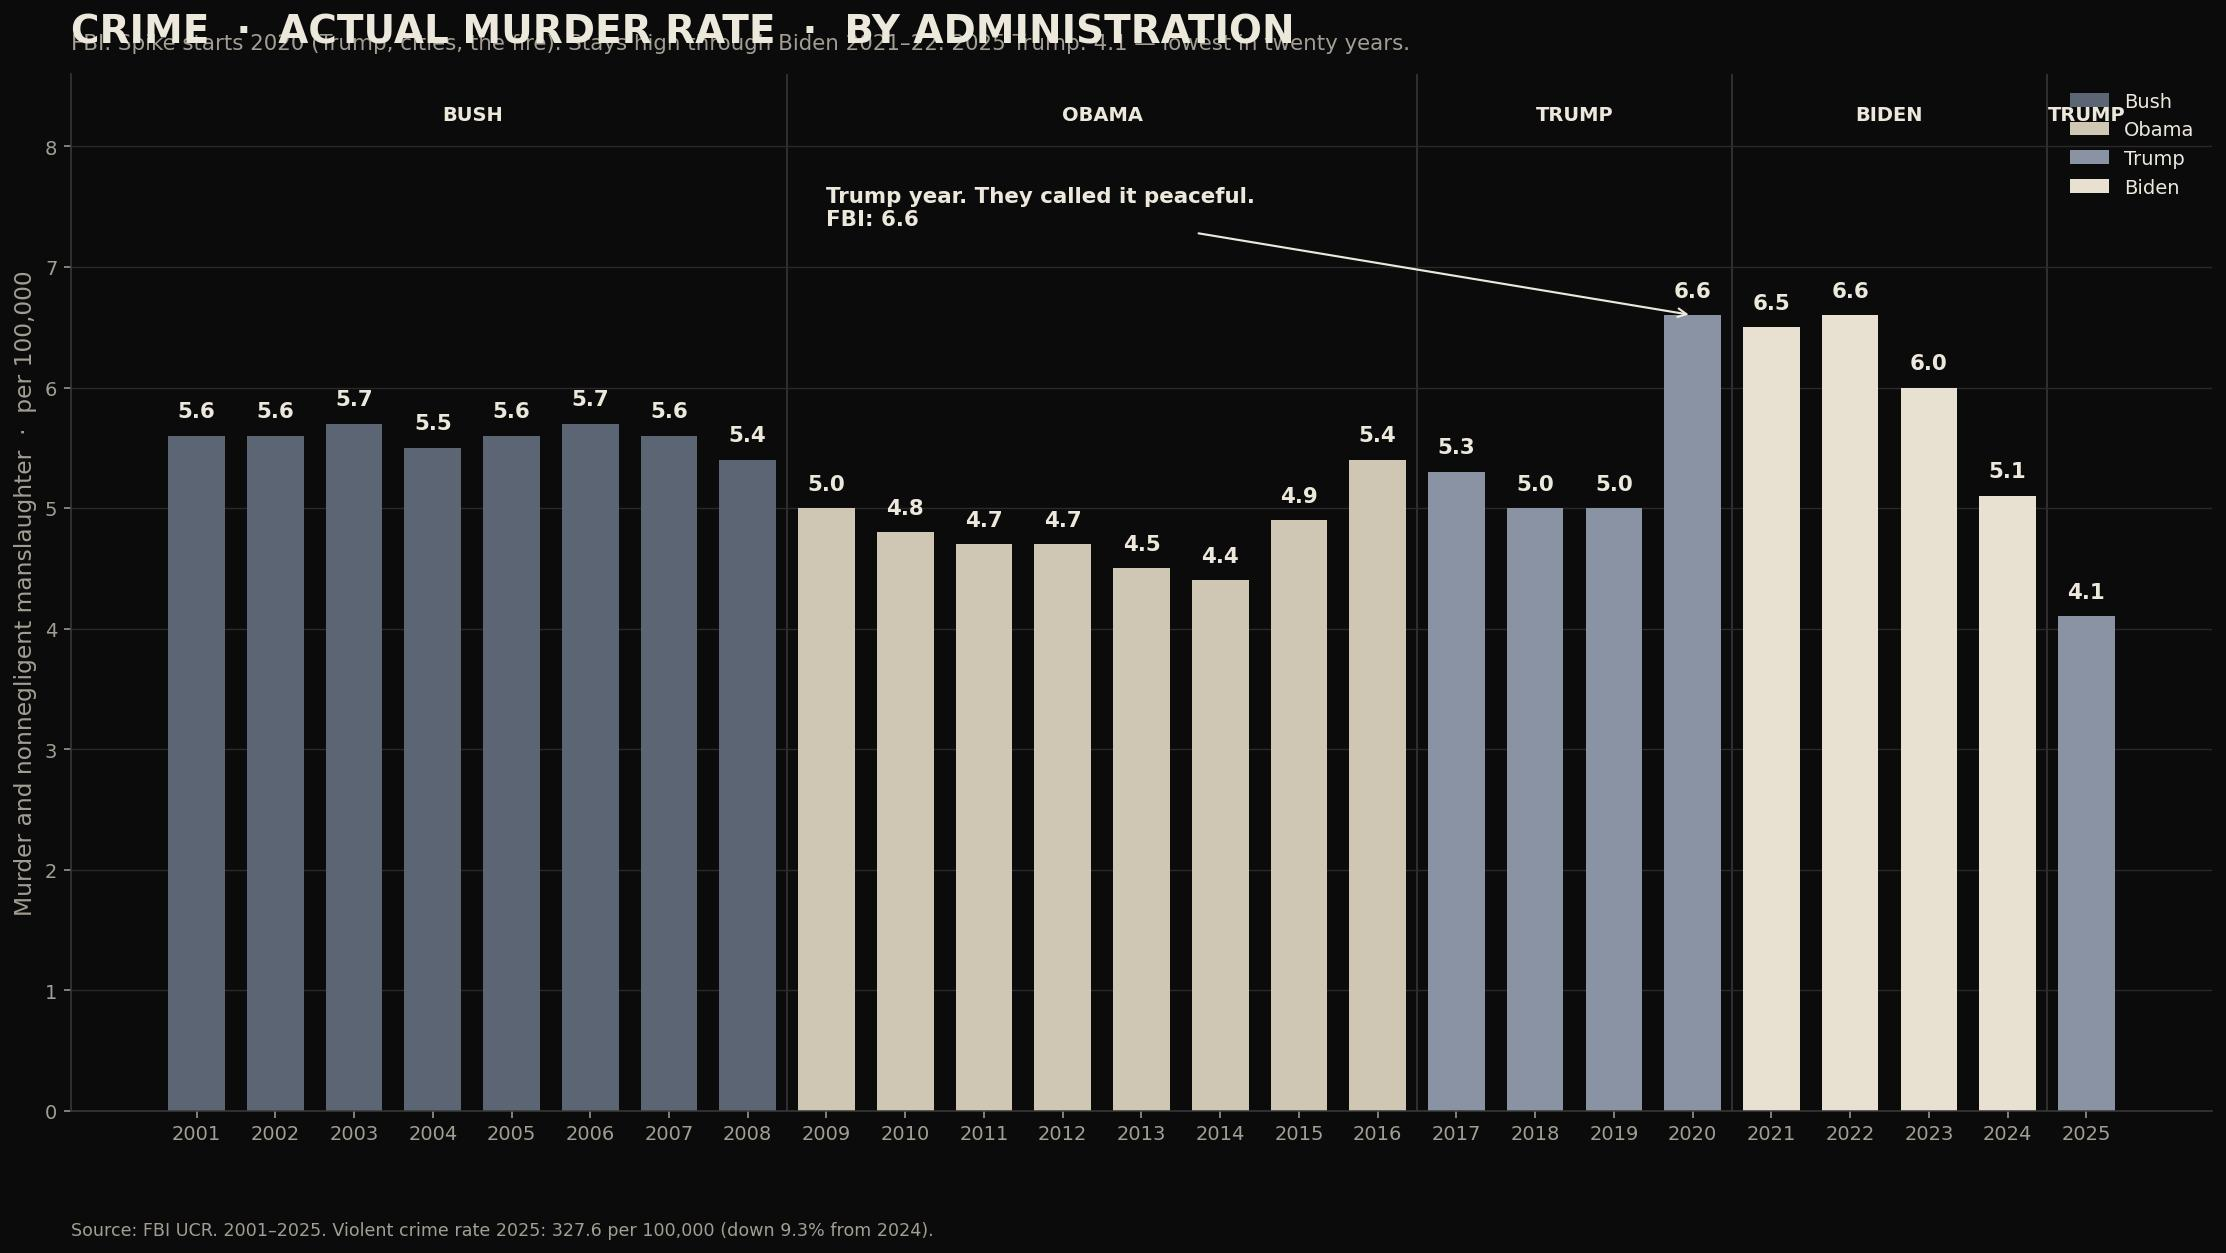
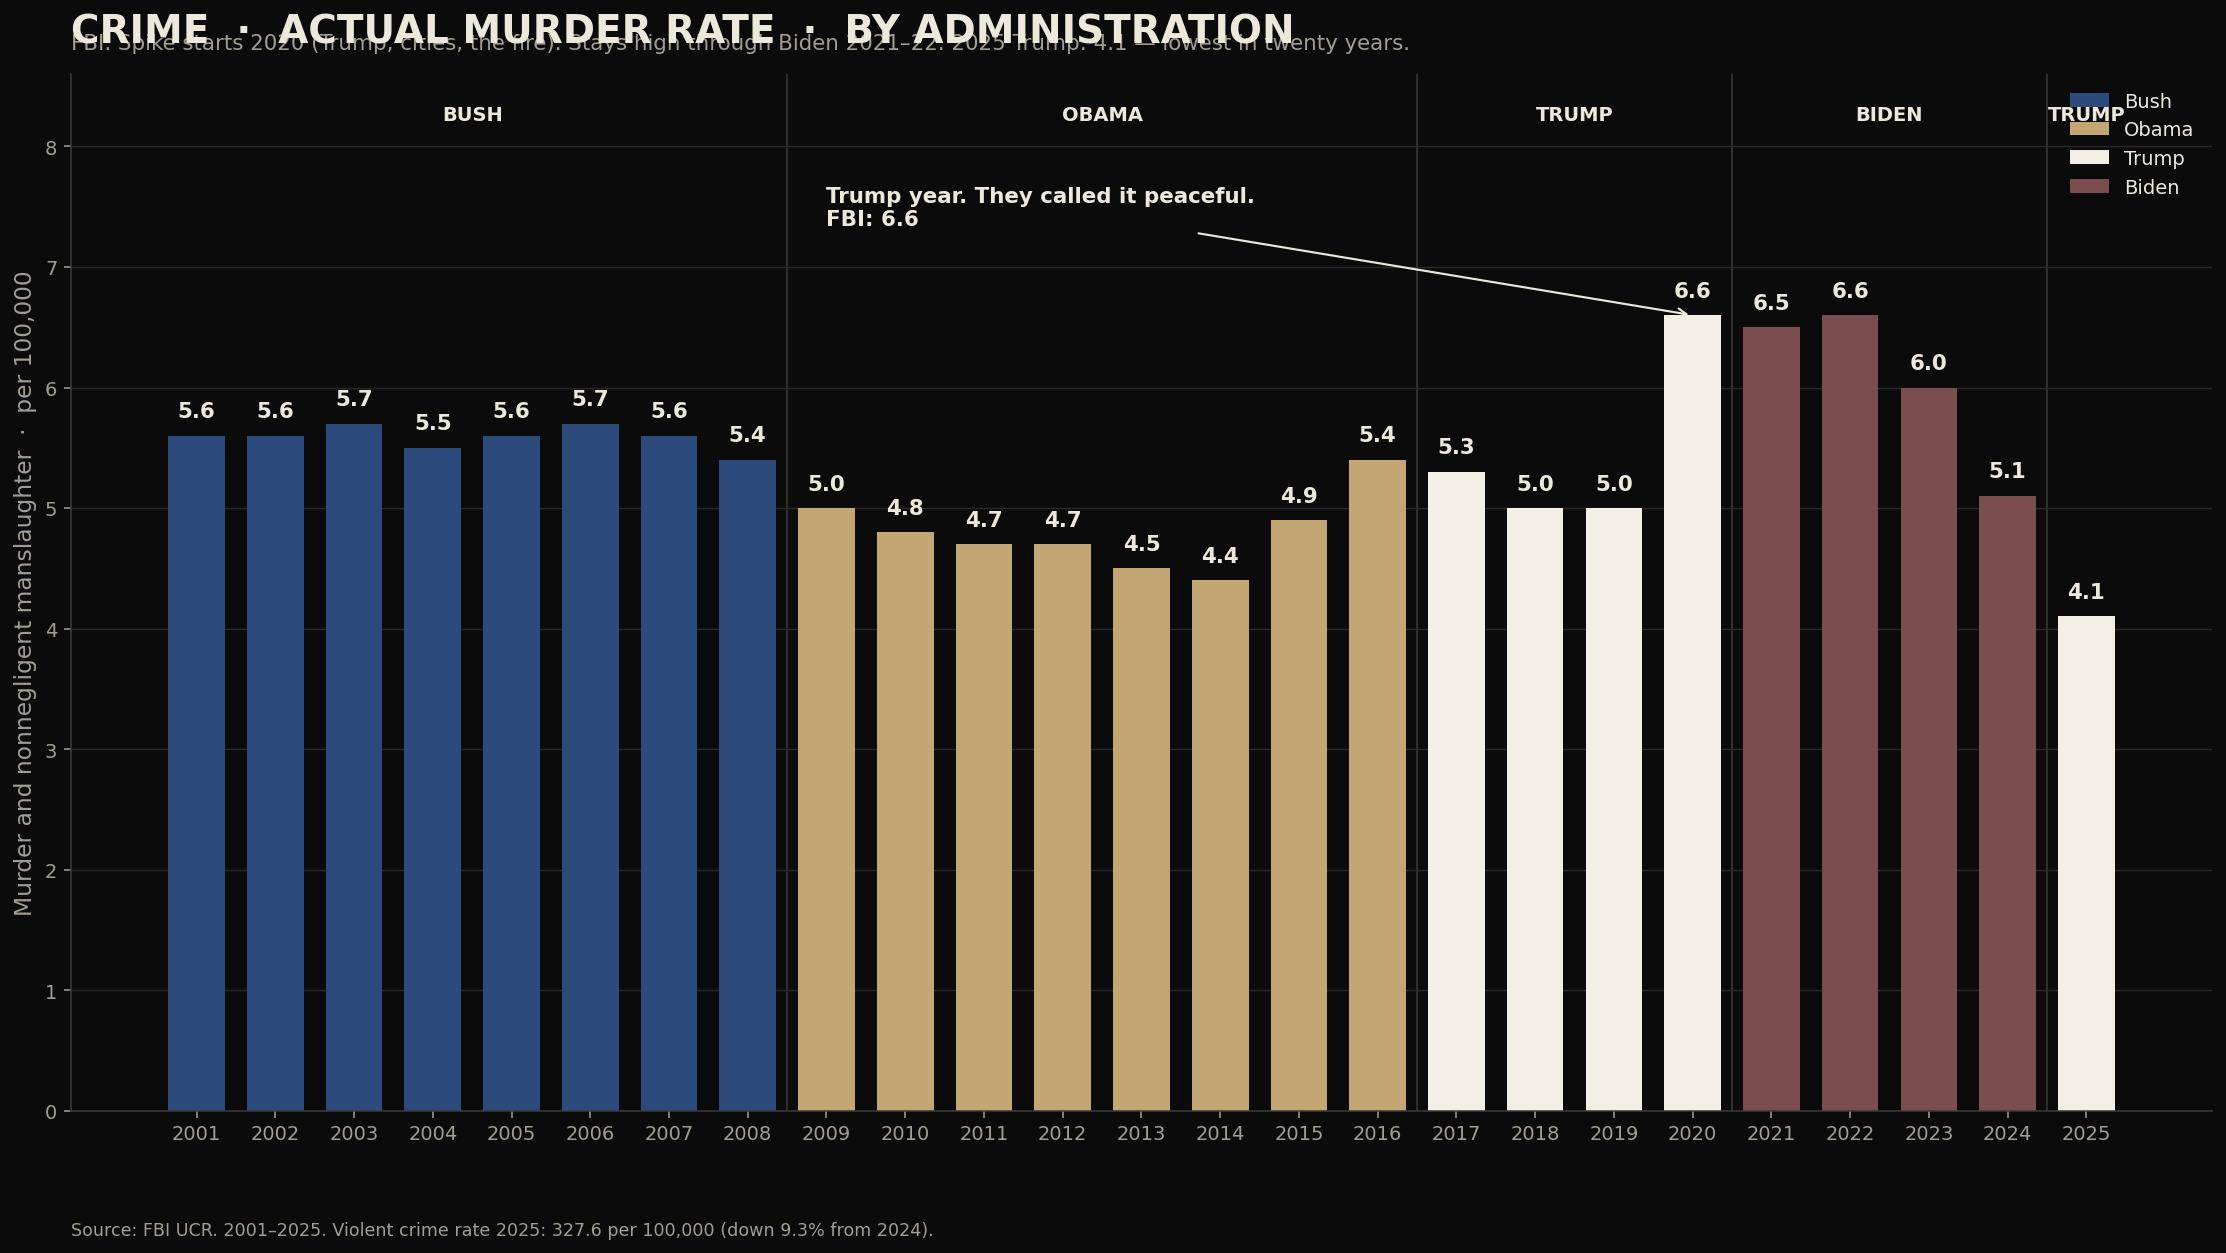
Distinct POTUS colors: Bush navy, Obama sand, Trump ivory, Biden maroon.

diff --git a/scripts/make-pump-charts.py b/scripts/make-pump-charts.py
@@ -11,6 +11,10 @@ BG, FG, MUTED, SAGE, LINE = (
     (232, 224, 208),
     (42, 42, 42),
 )
+BUSH = (44, 74, 124)
+OBAMA = (196, 165, 116)
+TRUMP = (243, 238, 230)
+BIDEN = (122, 78, 78)
 GAS = (232, 224, 208)
 DIESEL = (140, 132, 118)
 W, H = 1600, 900
@@ -52,24 +56,30 @@ def admins():
     left = 80
     # axis
     d.line([(64, base_y), (1536, base_y)], fill=LINE, width=2)
+    potus = [BUSH, OBAMA, TRUMP, BIDEN]
     for i, (who, when, gas, diesel) in enumerate(rows):
         x = left + i * (group_w + gap)
         gh = int(max_h * gas / max_v)
         dh = int(max_h * diesel / max_v)
         gx = x
         dx = x + bar_w + 16
-        d.rectangle([gx, base_y - gh, gx + bar_w, base_y], fill=GAS)
-        d.rectangle([dx, base_y - dh, dx + bar_w, base_y], fill=DIESEL)
+        d.rectangle([gx, base_y - gh, gx + bar_w, base_y], fill=potus[i])
+        d.rectangle([dx, base_y - dh, dx + bar_w, base_y], fill=tuple(max(0, c - 40) for c in potus[i]))
+        label_c = (18, 18, 18) if potus[i][0] > 200 else FG
         d.text((gx + bar_w / 2, base_y - gh - 12), f"${gas:.2f}", font=font(22, True), fill=FG, anchor="ms")
         d.text((dx + bar_w / 2, base_y - dh - 12), f"${diesel:.2f}", font=font(22, True), fill=SAGE, anchor="ms")
-        d.text((x + bar_w + 8, base_y + 16), who, font=font(24, True), fill=FG, anchor="mt")
+        d.text((x + bar_w + 8, base_y + 16), who, font=font(24, True), fill=potus[i], anchor="mt")
         d.text((x + bar_w + 8, base_y + 48), when, font=font(18), fill=MUTED, anchor="mt")
 
-    d.rectangle([64, 200, 88, 224], fill=GAS)
-    d.text((100, 198), "Gasoline", font=font(20, True), fill=FG)
-    d.rectangle([240, 200, 264, 224], fill=DIESEL)
-    d.text((276, 198), "Diesel", font=font(20, True), fill=FG)
-    d.text((64, 850), "Source: EIA weekly  ·  FRED GASREGW / GASDESW  ·  highest week in that Oval, dollars per gallon including tax", font=font(18), fill=MUTED)
+    d.rectangle([64, 200, 88, 224], fill=BUSH)
+    d.text((100, 198), "Bush", font=font(20, True), fill=FG)
+    d.rectangle([220, 200, 244, 224], fill=OBAMA)
+    d.text((256, 198), "Obama", font=font(20, True), fill=FG)
+    d.rectangle([400, 200, 424, 224], fill=TRUMP)
+    d.text((436, 198), "Trump 1", font=font(20, True), fill=FG)
+    d.rectangle([600, 200, 624, 224], fill=BIDEN)
+    d.text((636, 198), "Biden", font=font(20, True), fill=FG)
+    d.text((64, 850), "Left bar gasoline, right bar diesel. Source: EIA weekly  ·  FRED GASREGW / GASDESW  ·  highest week in that Oval", font=font(18), fill=MUTED)
     im.save(OUT / "chart-pump-admins.jpg", "JPEG", quality=90)
     print("wrote chart-pump-admins.jpg")
 
@@ -108,7 +118,7 @@ def years():
         (2025, 3.243, "2"),
         (2026, 4.500, "2"),
     ]
-    fill = {"H": (90, 86, 78), "O": (110, 104, 94), "T": (232, 224, 208), "B": (150, 142, 128), "2": (245, 241, 234)}
+    fill = {"H": BUSH, "O": OBAMA, "T": TRUMP, "B": BIDEN, "2": TRUMP}
     base_y = 760
     max_h = 500
     max_v = 5.006
@@ -127,10 +137,10 @@ def years():
         label = "'26*" if year == 2026 else f"'{str(year)[2:]}"
         d.text((x + bar_w / 2, base_y + 12), label, font=font(16, True), fill=MUTED, anchor="mt")
 
-    d.text((64, 170), "Bush", font=font(18, True), fill=(140, 134, 124))
-    d.text((140, 170), "Obama", font=font(18, True), fill=(160, 154, 144))
-    d.text((240, 170), "Trump 1", font=font(18, True), fill=SAGE)
-    d.text((360, 170), "Biden", font=font(18, True), fill=(170, 162, 150))
+    d.text((64, 170), "Bush", font=font(18, True), fill=BUSH)
+    d.text((140, 170), "Obama", font=font(18, True), fill=OBAMA)
+    d.text((240, 170), "Trump", font=font(18, True), fill=TRUMP)
+    d.text((340, 170), "Biden", font=font(18, True), fill=BIDEN)
     d.text((64, 830), "Source: EIA weekly regular  ·  FRED GASREGW  ·  highest week of each year, including tax", font=font(18), fill=MUTED)
     im.save(OUT / "chart-pump-years.jpg", "JPEG", quality=90)
     print("wrote chart-pump-years.jpg")

diff --git a/scripts/make-party-charts.py b/scripts/make-party-charts.py
@@ -9,14 +9,14 @@ from matplotlib.ticker import MultipleLocator, FuncFormatter
 bg = "#0b0b0b"
 fg = "#ece8dc"
 muted = "#a39e93"
-gop_c = "#8a93a3"
-dem_c = "#d8d0c0"
+gop_c = "#6b7c94"
+dem_c = "#d4c8b4"
 split_c = "#3d3d3d"
-clinton_c = "#b7a78e"
-bush_c = "#5c6574"
-obama_c = "#cfc6b4"
-trump_c = "#8a93a3"
-biden_c = "#e8e0d0"
+clinton_c = "#9a8b74"
+bush_c = "#2c4a7c"
+obama_c = "#c4a574"
+trump_c = "#f3eee6"
+biden_c = "#7a4e4e"
 hurt_c = "#9a8f82"
 help_c = "#d8d0c0"
 
